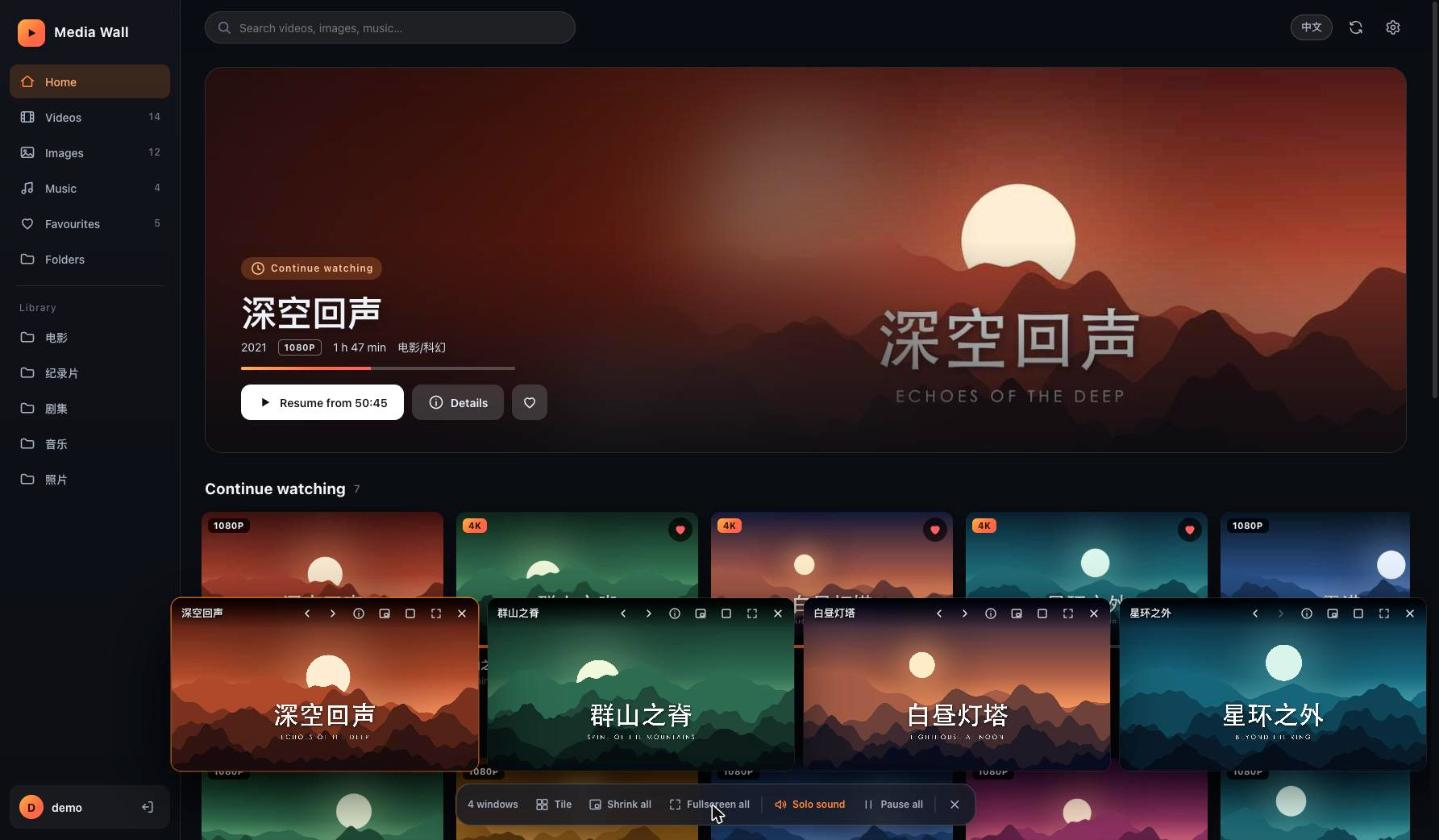
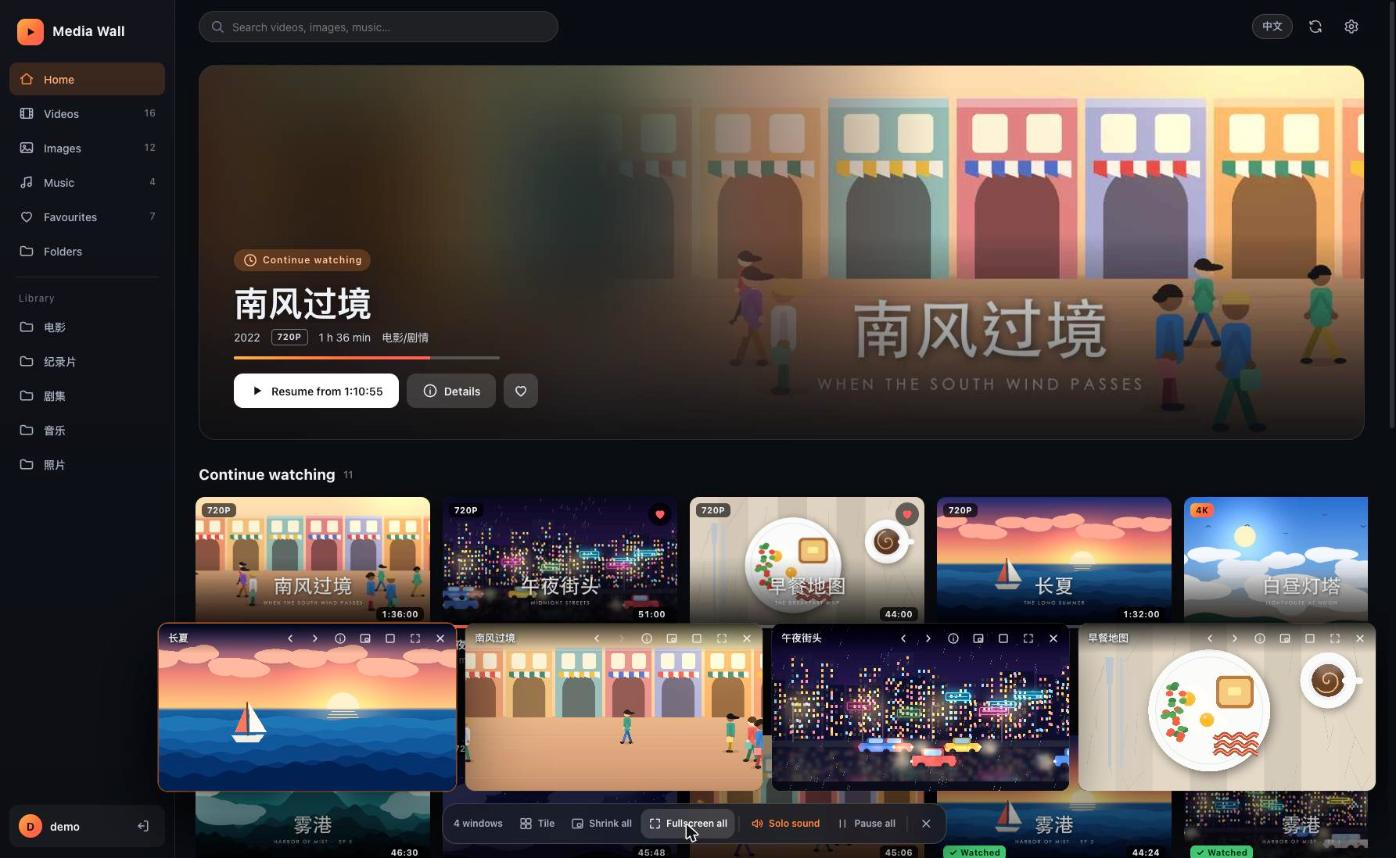
README: overview diagram, language switch, animated multi-video demo
- overview diagram (English and Chinese SVG) showing where it runs and
  which devices can use it
- language switch at the top of both READMEs
- animated GIF of four videos playing together, recorded from the page
- new demo screenshots with varied, script-drawn footage (people, street,
  food, sky, sea)

diff --git a/README.md b/README.md
@@ -1,10 +1,16 @@
+<p align="center"><b>English</b> &nbsp;|&nbsp; <a href="README.zh-CN.md">简体中文</a></p>
+
 # copyparty-media-wall · 影音库
 
 **A movie-wall front end for [copyparty](https://github.com/9001/copyparty).** Turns a copyparty file server into a private media library: poster wall, filters, favourites, resume playback, and floating multi-window players — with nothing to patch and no extra server.
 
-[中文说明](README.zh-CN.md) · [Download](#download) · [Manual setup](#manual-setup-any-os)
+[Download](#download) · [Manual setup](#manual-setup-any-os) · [Screenshots](#several-videos-at-once)
 
-![Several videos playing at once in floating windows](docs/shots/en/multi-window.jpg)
+![How it fits together: your media folders, one computer running copyparty and Media Wall, and any browser on the network](docs/overview.en.svg)
+
+**In one sentence:** point it at the folders that hold your films, photos and music on one computer, and every computer, phone and tablet on your network gets a media library in the browser — nothing to install on them.
+
+![Four videos playing at the same time inside one page](docs/shots/multi-video.gif)
 
 > Built on top of **[copyparty](https://github.com/9001/copyparty)** by [9001](https://github.com/9001) — the portable file server that does all the real work here (storage, indexing, thumbnails, accounts). This project is only a set of static pages that talk to copyparty's stock HTTP API. If you find it useful, go star copyparty first.
 
@@ -27,9 +33,13 @@
 
 This is the part that file servers and most media libraries do not do: playback happens in windows inside the page, so more than one thing can play at a time.
 
-**Fullscreen together** — one click turns every open window into a video wall.
+**Floating windows** — drag them anywhere, resize from any edge, stack them over the library.
 
-![Four videos fullscreen together](docs/shots/en/multi-fullscreen.jpg)
+![Several videos playing at once in floating windows](docs/shots/en/multi-window.jpg)
+
+**Tiled** — one click arranges every open window into a video wall; one more puts the whole wall fullscreen. The animation at the top of this page is this layout, recorded from the real page.
+
+![Four videos tiled and playing together](docs/shots/en/multi-tile.jpg)
 
 **Keep browsing while they play** — shrink the players to a corner and carry on through the library.
 
@@ -44,7 +54,7 @@ Each window has previous / next, details, shrink, fill-page, fullscreen and clos
 | ![Video wall with filters](docs/shots/en/videos.jpg) Video wall and filters | ![Details](docs/shots/en/detail.jpg) Details and watch progress |
 | ![File management](docs/shots/en/files.jpg) File management with multi-select | ![Resume playback](docs/shots/player.jpg) Resume where you left off (中文 interface) |
 
-The artwork in these screenshots is generated by a script; no real films are shown.
+Every video and picture in these screenshots was drawn by a script for this demo (people, street, food, sky, sea); no real films are shown.
 
 ## Download
 

diff --git a/README.zh-CN.md b/README.zh-CN.md
@@ -1,10 +1,16 @@
+<p align="center"><a href="README.md">English</a> &nbsp;|&nbsp; <b>简体中文</b></p>
+
 # copyparty-media-wall · 影音库
 
 **给 [copyparty](https://github.com/9001/copyparty) 做的电影墙界面。** 把 copyparty 文件服务器变成私人影音库：封面墙、筛选、收藏、续播、可自由摆放的多窗口播放。不改 copyparty 一行代码，也不需要额外的服务。
 
-[English](README.md) · [下载](#下载) · [手动部署](#手动部署任意系统)
+[下载](#下载) · [手动部署](#手动部署任意系统) · [界面展示](#多个视频同时播放)
 
-![多个视频在浮动窗口里同时播放](docs/shots/multi-window.jpg)
+![整体方案：你的媒体文件夹、一台运行 copyparty 和影音库的电脑、局域网内的任意浏览器](docs/overview.zh.svg)
+
+**一句话：** 在一台电脑上指定存放电影、照片、音乐的文件夹，局域网里的所有电脑、手机、平板打开浏览器就有一个影音库，它们什么都不用装。
+
+![四个视频在同一个页面里同时播放](docs/shots/multi-video.gif)
 
 > 本项目建立在 [9001](https://github.com/9001) 的 **[copyparty](https://github.com/9001/copyparty)** 之上。存储、索引、缩略图、账号这些真正的工作都是 copyparty 完成的，本项目只是一组调用它标准 HTTP 接口的静态页面。觉得好用，请先去给 copyparty 点个 star。
 
@@ -27,9 +33,13 @@
 
 这是文件服务器和大多数影音库没有的能力：播放发生在页面内的窗口里，所以可以同时放不止一个。
 
-**一起全屏**：点一下，所有打开的窗口组成一面视频墙。
+**浮动窗口**：可以拖到任意位置、从任意边缘缩放，叠在片库上面。
 
-![四个视频一起全屏](docs/shots/multi-fullscreen.jpg)
+![多个视频在浮动窗口里同时播放](docs/shots/multi-window.jpg)
+
+**平铺**：点一下，所有打开的窗口排成一面视频墙；再点一下整面墙一起全屏。本页顶部的动图就是这个布局，从真实页面录制。
+
+![四个视频平铺并同时播放](docs/shots/multi-tile.jpg)
 
 **边浏览边播放**：把播放窗口缩到角落，继续翻看片库。
 
@@ -45,7 +55,7 @@
 | ![续播](docs/shots/player.jpg) 从上次的位置继续 | ![详情](docs/shots/detail.jpg) 详情面板 |
 | ![文件管理](docs/shots/files.jpg) 文件管理和多选 | ![登录](docs/shots/login.jpg) 登录页 |
 
-截图里的封面都是脚本生成的示例图，不是真实影片。
+截图里的视频和图片（行人、街景、美食、天空、海面）都是为演示用脚本绘制的，不是真实影片。
 
 ## 下载
 
